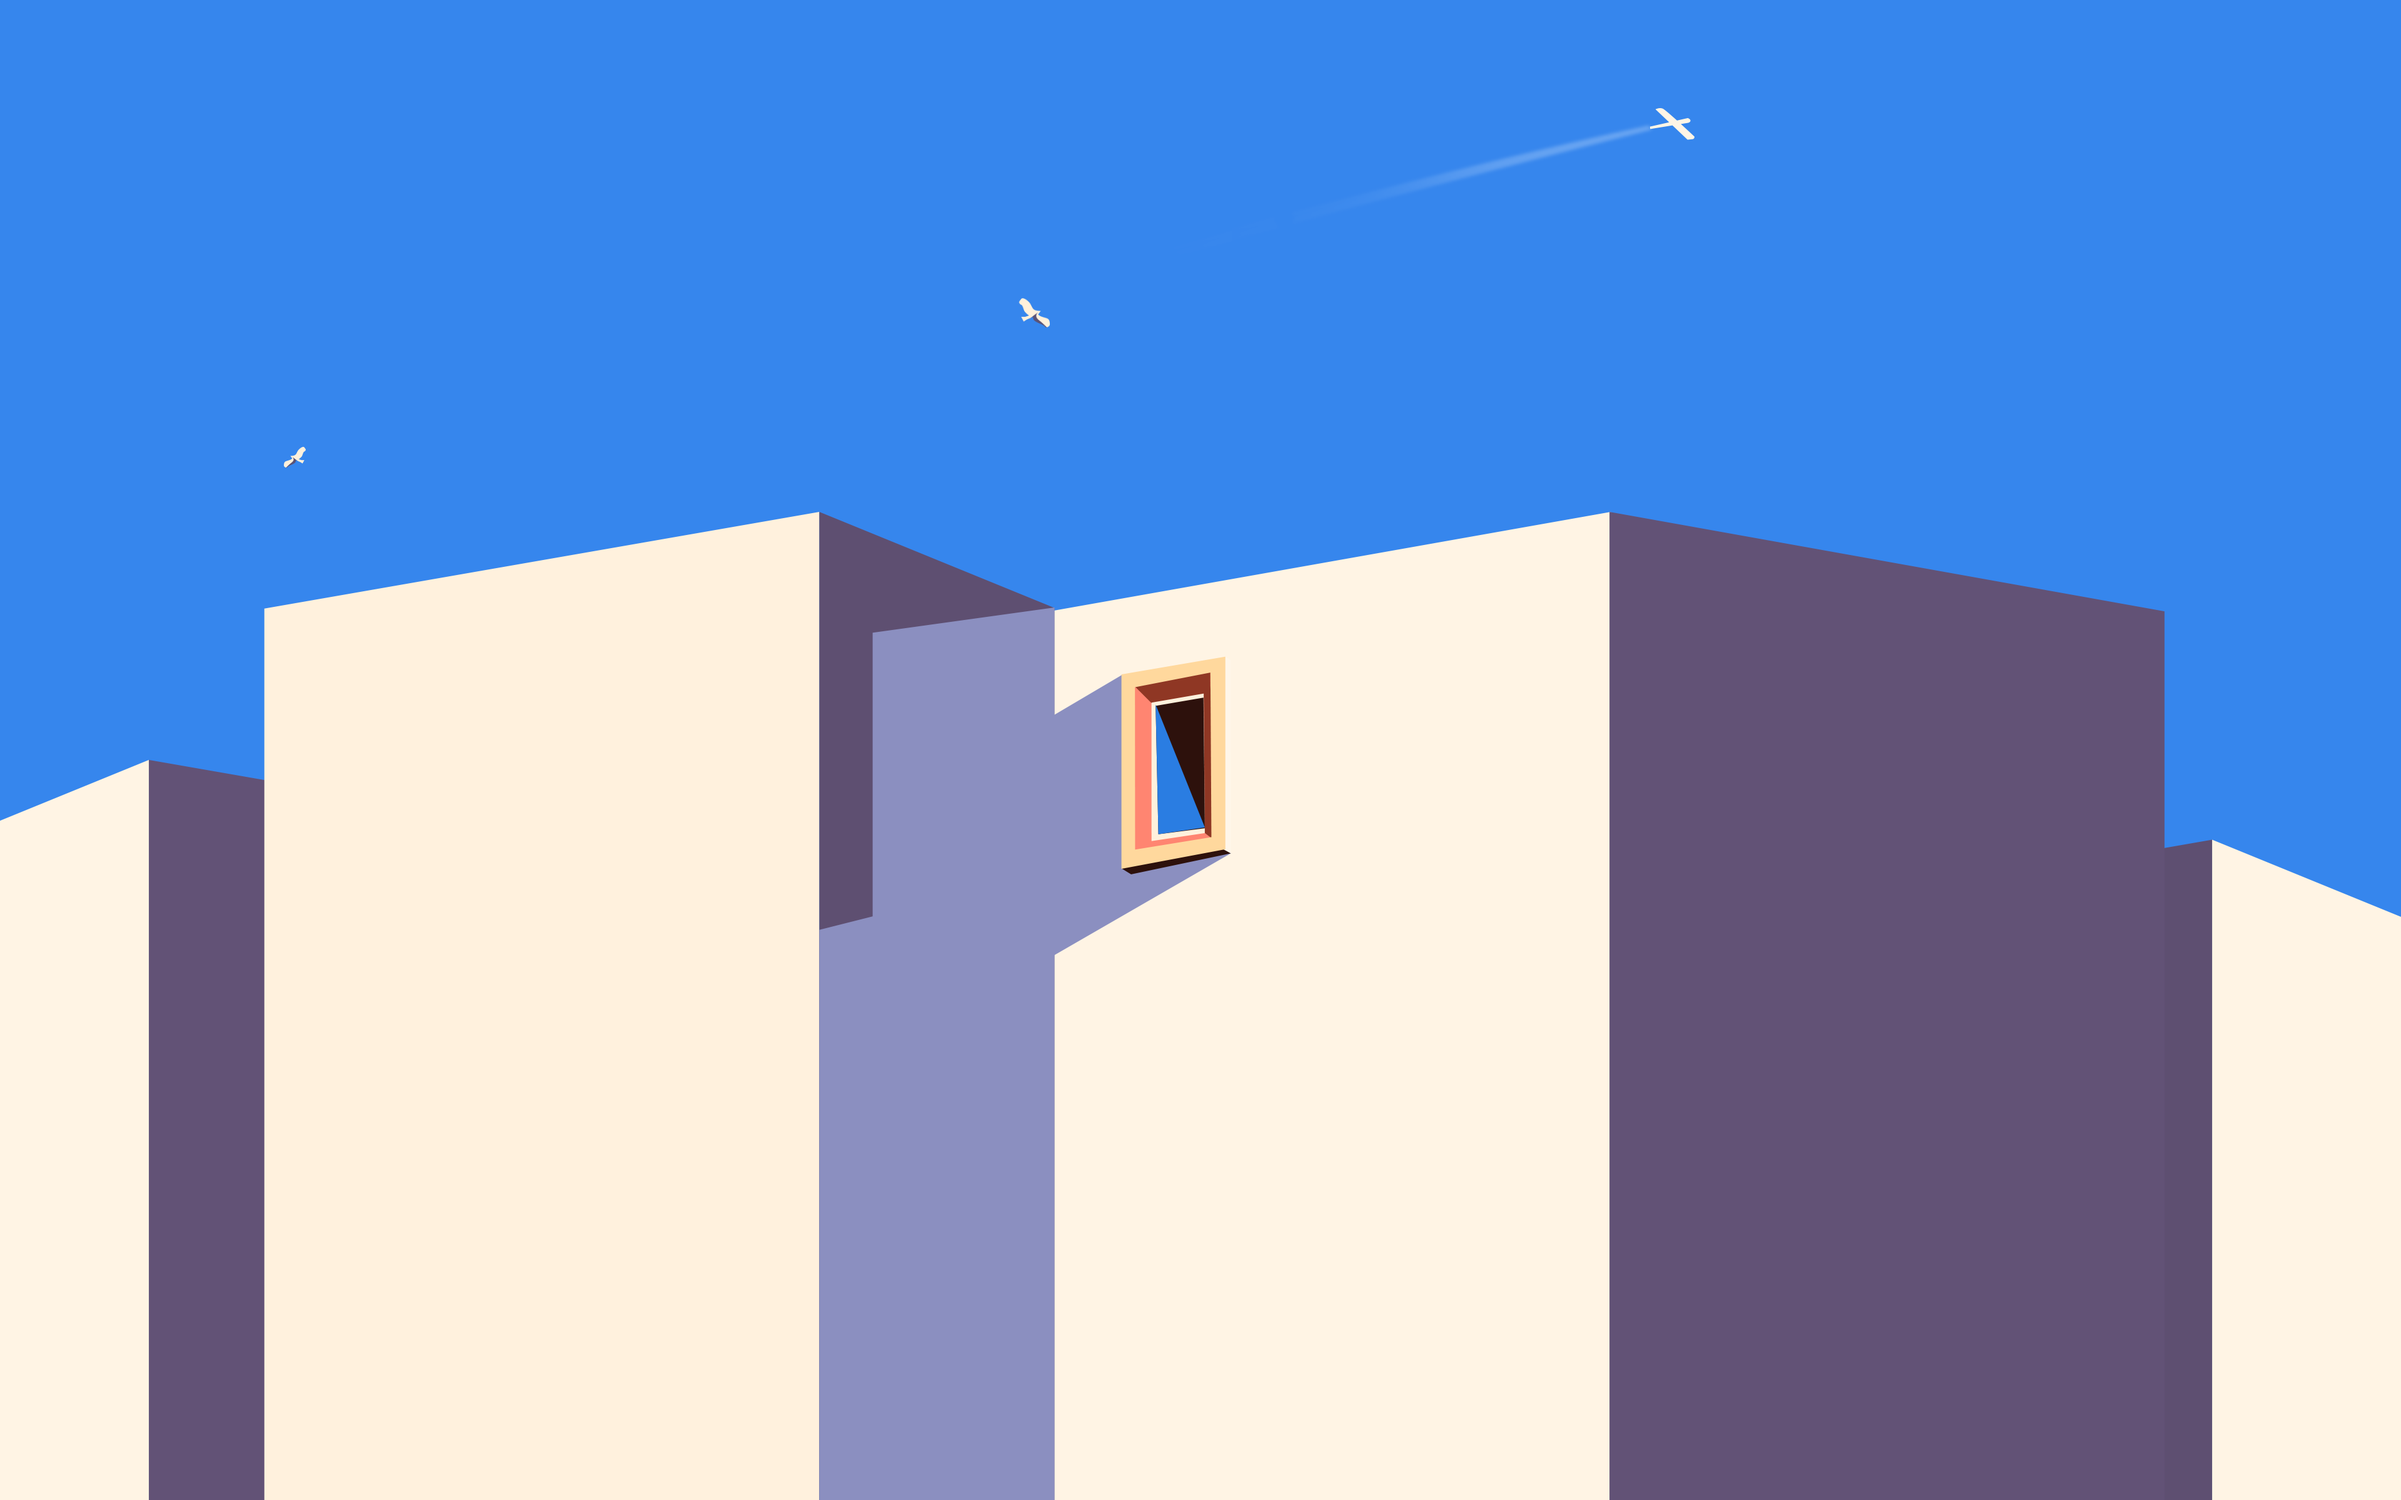
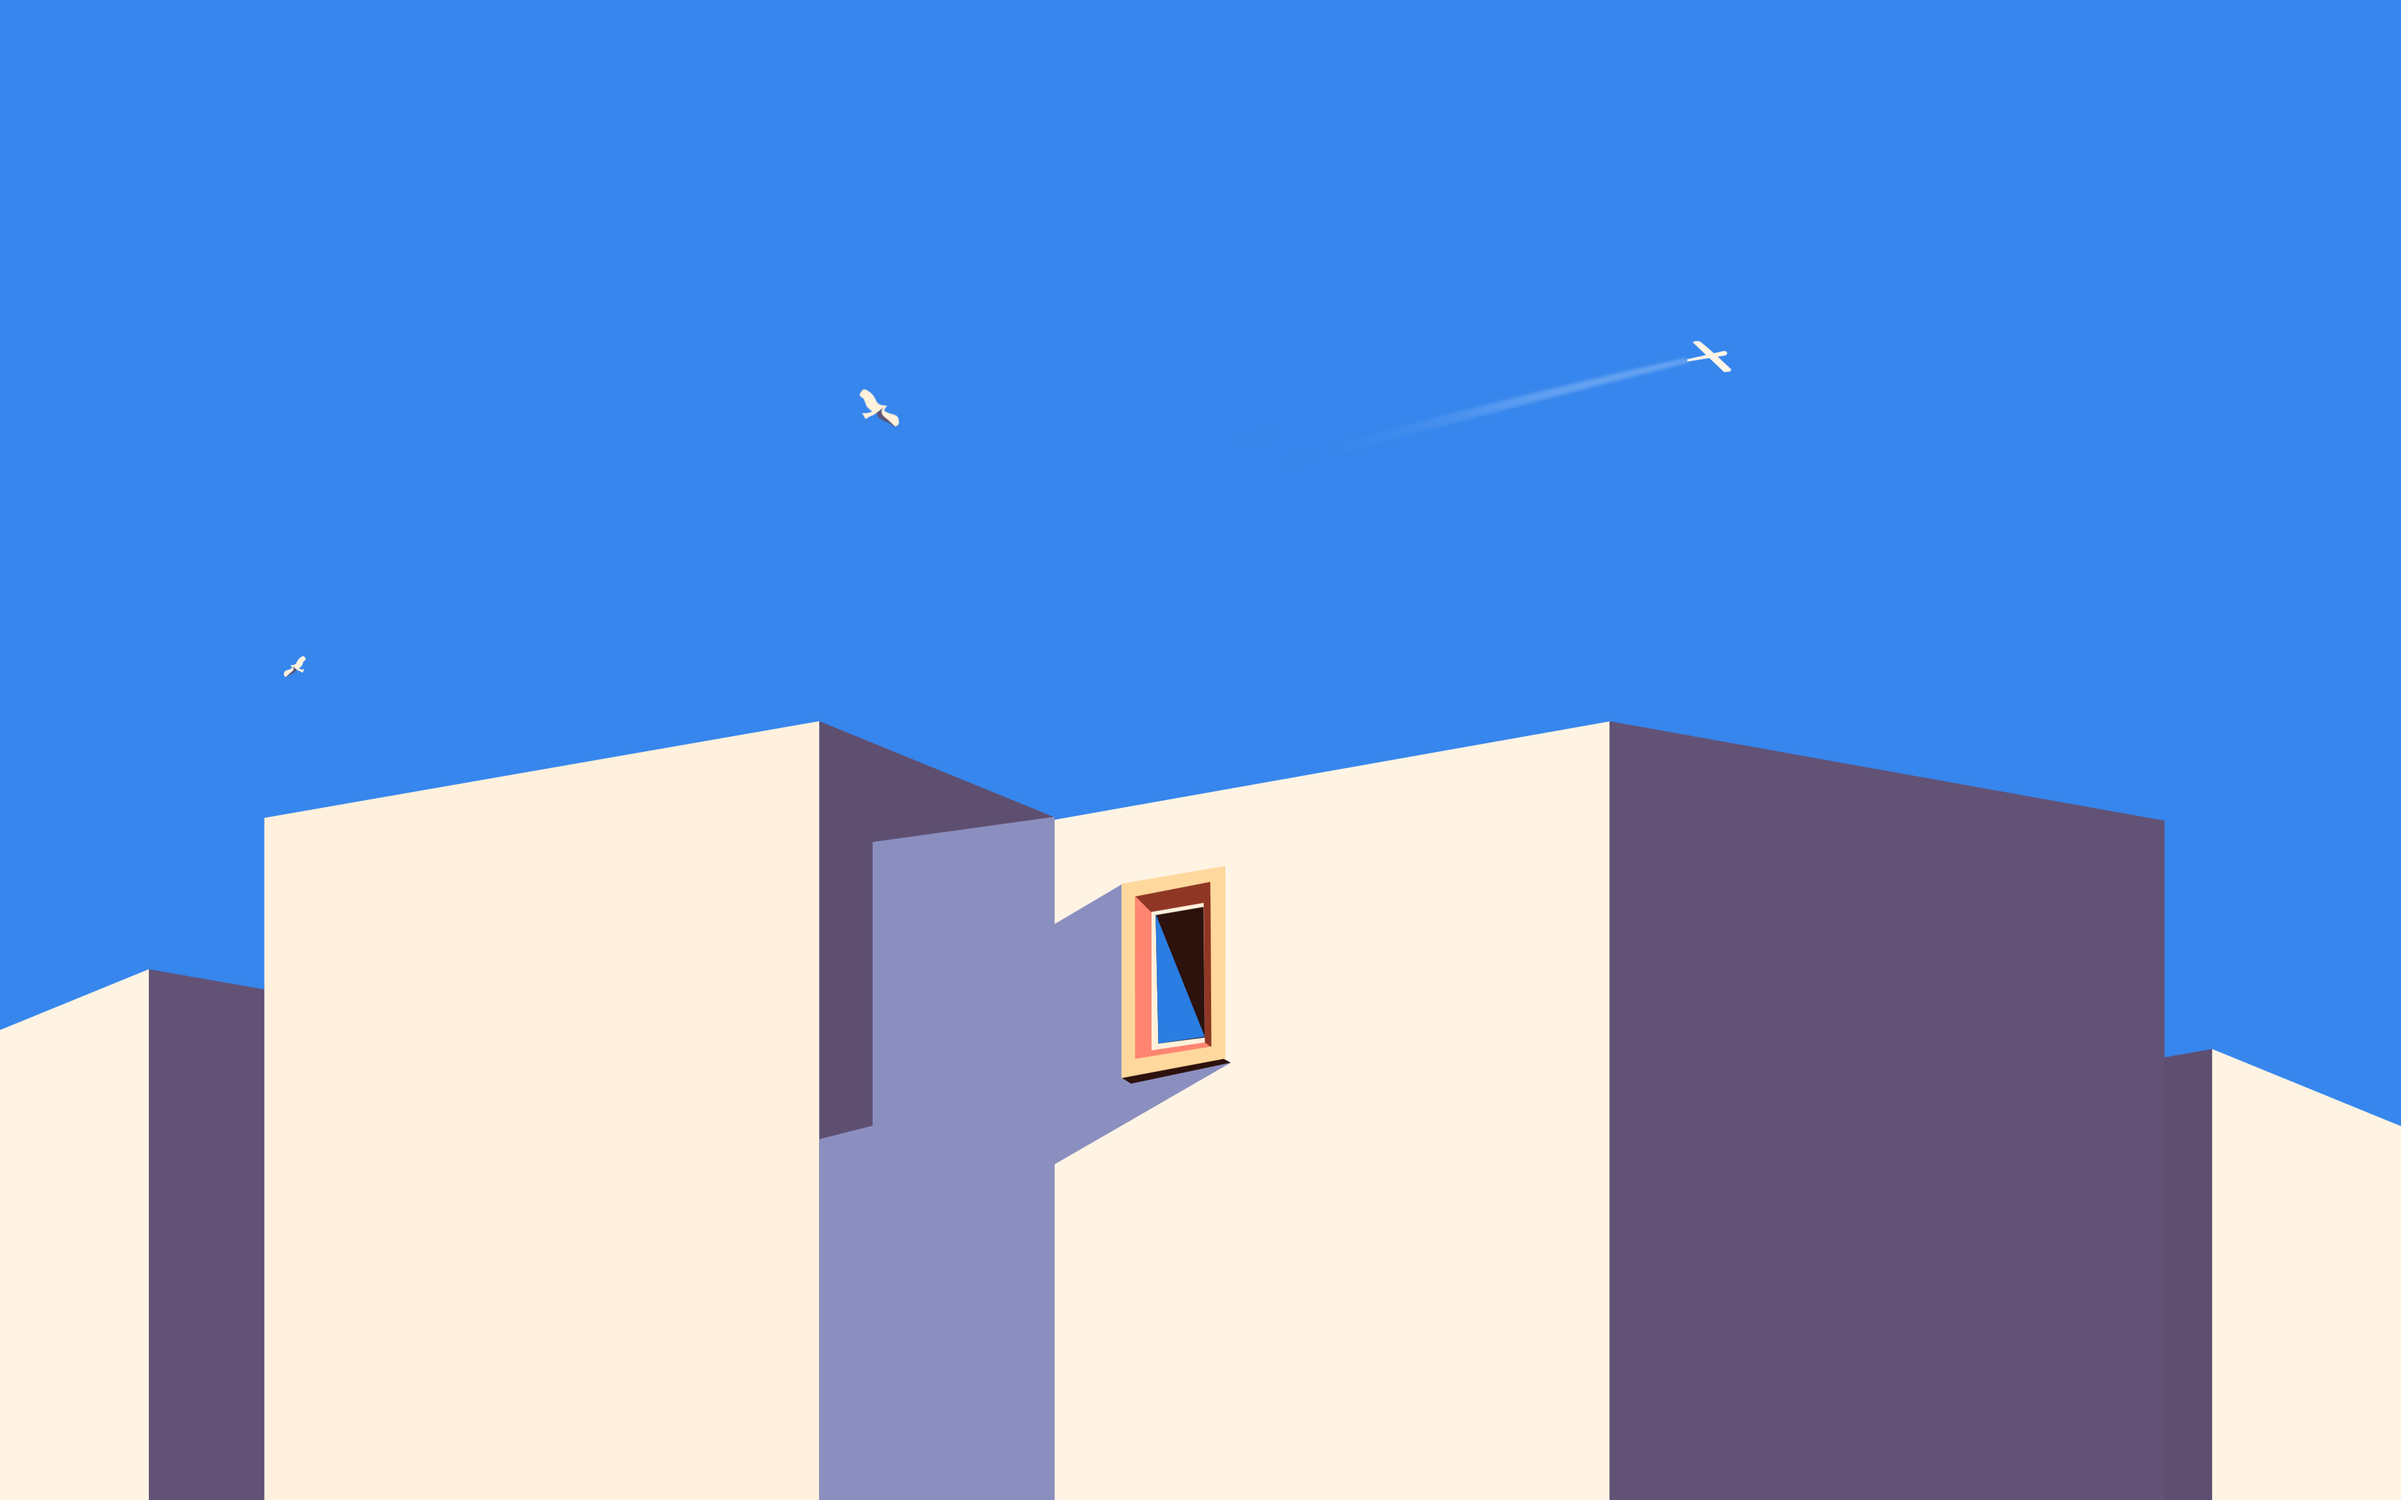
Change hero background image position

diff --git a/style.css b/style.css
@@ -124,9 +124,9 @@ header:hover .home-header-icon {
   padding: 16px;
   background-image: url('assets/city.png');
   background-color: #6cb6d6;
-  background-position: top;
+  background-position: center;
   background-repeat: no-repeat;
-  background-size: 110%;
+  background-size: cover;
 }
 
 .hero-mid {
@@ -186,8 +186,8 @@ header:hover .home-header-icon {
 .info-section {
   background-color: #EDF2F7;
   justify-content: space-evenly;
+  padding: 100px;
   flex-wrap: wrap;
-  padding: 100px 0;
 }
 
 .box-section {
